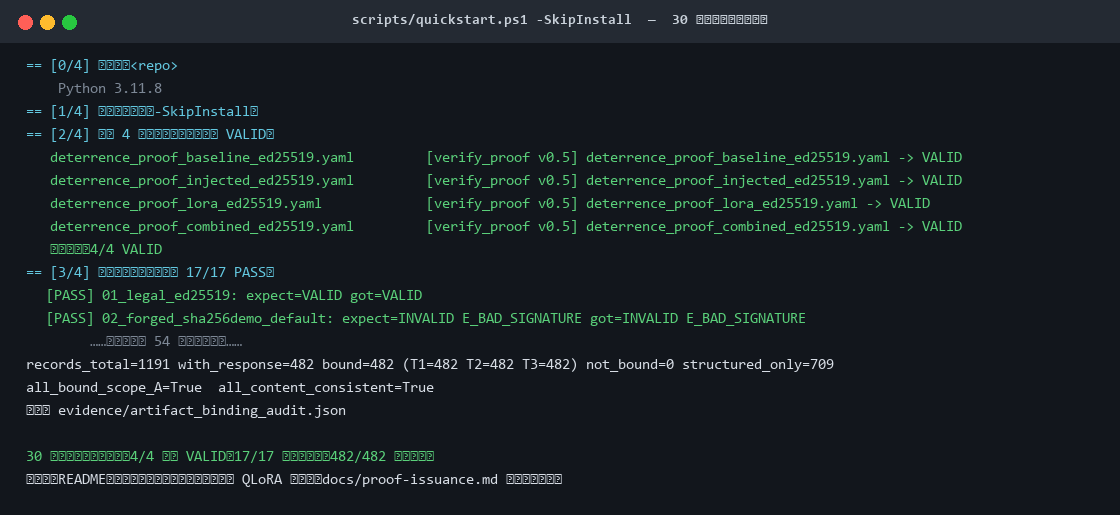
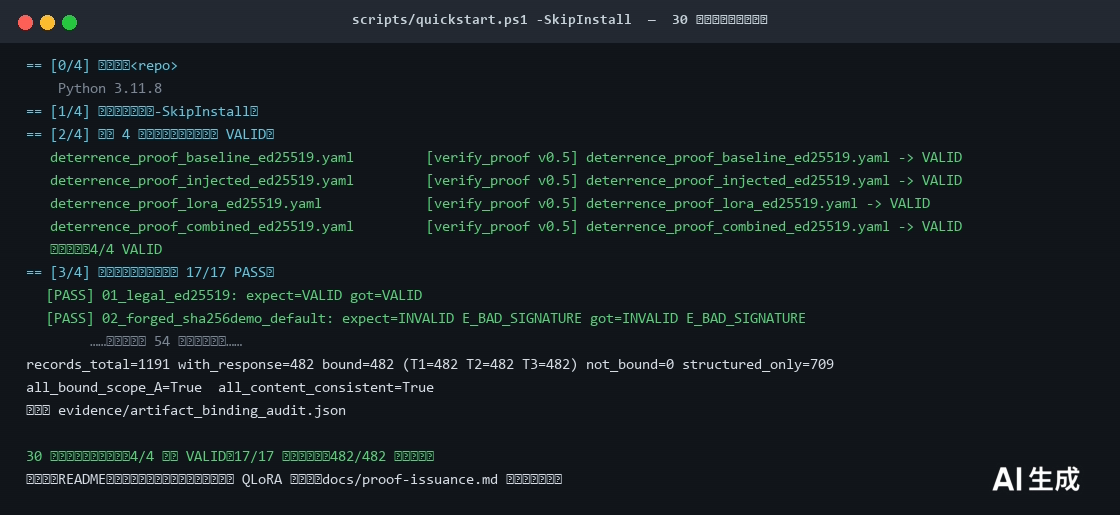
docs: 补 AIGC 合规标识与截图重导出；忽略 v2 复现与 .demo_out 中间产物

diff --git a/SECURITY.md b/SECURITY.md
@@ -1,3 +1,14 @@
+---
+AIGC:
+    Label: "1"
+    ContentProducer: 001191440300708461136T1XGW3
+    ProduceID: dbc1c155fc9201133fd4bf5993fb4878_a74d400cc99f11f18078525400de85a5
+    ReservedCode1: Am5rGN7Tu7vJvEcmwcXWCGY+k70dhd202d2dR11mQekjFc4mr7YQo+dTQVIp3wFc+vHOc97yUy0a3RJMT7WGLxAUBXTgU1TcsYTppl79b5rTYc96fAeYEXqaEy+QznNXSbyxIilkW0UQv8jMxAaFrdKSnG/7DJLXWclegOeHuJzjpDuz+j+eH+gCSDs=
+    ContentPropagator: 001191440300708461136T1XGW3
+    PropagateID: dbc1c155fc9201133fd4bf5993fb4878_a74d400cc99f11f18078525400de85a5
+    ReservedCode2: Am5rGN7Tu7vJvEcmwcXWCGY+k70dhd202d2dR11mQekjFc4mr7YQo+dTQVIp3wFc+vHOc97yUy0a3RJMT7WGLxAUBXTgU1TcsYTppl79b5rTYc96fAeYEXqaEy+QznNXSbyxIilkW0UQv8jMxAaFrdKSnG/7DJLXWclegOeHuJzjpDuz+j+eH+gCSDs=
+---
+
 # 安全政策（SECURITY）
 
 Swordholder 是一个 AI 安全方向的 MVP 实证工程，其**核心资产是「可验证的证据链」**：原始响应工件 → 逐题记录 → 证据聚合 → ed25519 签名凭证 → 信任锚校验。因此本仓库的安全问题分两类：**软件缺陷**与**证据/密钥完整性**。
@@ -65,3 +76,4 @@ Swordholder 是一个 AI 安全方向的 MVP 实证工程，其**核心资产是
 - 凭证体系是**本地校验模型**（自带信任锚 + ed25519），不是 CA/PKI 体系；"VALID" 的含义是「该凭证由信任锚内公钥签发、内容未被篡改、且仍在有效期内」，**不代表**对模型安全性或结论正确性的担保。
 - 本仓库的评测结论为 MVP 级实证（样本量小、采样存在温度随机性），不要外推到生产环境。
 - 验证器只保证"证据链自洽"，不保证"证据采集过程无偏"。对采集流程的质疑请附可复算的命令与文件。
+*（内容由AI生成，仅供参考）*

diff --git a/PRIVATE_KEY.md b/PRIVATE_KEY.md
@@ -1,3 +1,14 @@
+---
+AIGC:
+    Label: "1"
+    ContentProducer: 001191440300708461136T1XGW3
+    ProduceID: dbc1c155fc9201133fd4bf5993fb4878_a7ffb87fc99f11f18078525400de85a5
+    ReservedCode1: 7r/NkIW/o6J5eqPaIN8OZvLLxDvo3CVXKUSAAiJlNpjcvymuOVSLOVV2rknjoo6QK26L+G7ltgDUKXUI+0s8WyFJeDttMfMaRwSFCIJZPqCdNHqcGC62JL1Y9xq6eGwNIeweFrSpqm6NMNib4XQtwPpKisoIeOB/kFMDFpLtXXOaijN+cKoRVnCHM2M=
+    ContentPropagator: 001191440300708461136T1XGW3
+    PropagateID: dbc1c155fc9201133fd4bf5993fb4878_a7ffb87fc99f11f18078525400de85a5
+    ReservedCode2: 7r/NkIW/o6J5eqPaIN8OZvLLxDvo3CVXKUSAAiJlNpjcvymuOVSLOVV2rknjoo6QK26L+G7ltgDUKXUI+0s8WyFJeDttMfMaRwSFCIJZPqCdNHqcGC62JL1Y9xq6eGwNIeweFrSpqm6NMNib4XQtwPpKisoIeOB/kFMDFpLtXXOaijN+cKoRVnCHM2M=
+---
+
 # 关于出证私钥：本仓库不含任何私钥（PRIVATE_KEY.md）
 
 **结论先说**：本仓库**不包含、不需要、也不应该包含**出证私钥。仓库只登记**公钥与指纹**（`trusted_keys.json`），任何人都可以只用公钥完成凭证验证。
@@ -65,3 +76,4 @@ python verify_proof.py temp/demo_proof.yaml --trusted-keys temp/demo_trusted_key
 | `--trusted-keys`（`verify_proof.py`） | 指定信任锚文件 | `trusted_keys.json` |
 
 > 提示：`verify_proof.py` 的 `--base-dir` 决定凭证内相对路径（`../artifacts_v2` 等）的解析基准，默认与凭证文件所在目录（`proofs/`）一致；把凭证挪到别处时记得同步调整。
+*（内容由AI生成，仅供参考）*

diff --git a/docs/README.md b/docs/README.md
@@ -1,3 +1,14 @@
+---
+AIGC:
+    Label: "1"
+    ContentProducer: 001191440300708461136T1XGW3
+    ProduceID: dbc1c155fc9201133fd4bf5993fb4878_a8b1e34ec99f11f1acd7525400cd780f
+    ReservedCode1: s4WujlQr1NHOA6F1CucXfN9G7H1S9gz1BTzMNU/Zhob0VJJ+Z5iXdCmcyX5W29KM9Kxsmi9mUvEudwpI+rMZnB6enIVKoEeUJXQLmUjlrwM15YCjDoHnHJ77P//kSeHoZF9Bog+yJsfumazD+3r7bfXoth9TfcKMihYTi5E+SbLzv1FrM1pAzAT7wQk=
+    ContentPropagator: 001191440300708461136T1XGW3
+    PropagateID: dbc1c155fc9201133fd4bf5993fb4878_a8b1e34ec99f11f1acd7525400cd780f
+    ReservedCode2: s4WujlQr1NHOA6F1CucXfN9G7H1S9gz1BTzMNU/Zhob0VJJ+Z5iXdCmcyX5W29KM9Kxsmi9mUvEudwpI+rMZnB6enIVKoEeUJXQLmUjlrwM15YCjDoHnHJ77P//kSeHoZF9Bog+yJsfumazD+3r7bfXoth9TfcKMihYTi5E+SbLzv1FrM1pAzAT7wQk=
+---
+
 # 文档索引（docs/）
 
 本目录放的是**支撑仓库可读性与可复现性的说明文档**（不含证据数据本身；证据在 `../evidence/`、`../proofs/`、`../artifacts_v2*/`）。
@@ -47,3 +58,4 @@
 | [../deliverable/README-oss.md](../deliverable/README-oss.md) | 开源治理版材料（口径已冻结，不改动） |
 
 > 约定：**叙述性文档可以改，证据与口径不能悄悄改**。任何结论都要能落到 `evidence/*.json`、`proofs/*.yaml`、`artifacts_v2*/` 上并可复算；规则见 [../CONTRIBUTING.md §3](../CONTRIBUTING.md#3-改证据--改凭证--改口径的硬规则重要)。
+*（内容由AI生成，仅供参考）*

diff --git a/CONTRIBUTING.md b/CONTRIBUTING.md
@@ -1,3 +1,14 @@
+---
+AIGC:
+    Label: "1"
+    ContentProducer: 001191440300708461136T1XGW3
+    ProduceID: dbc1c155fc9201133fd4bf5993fb4878_a5e23dbec99f11f1acd7525400cd780f
+    ReservedCode1: OTM4tenx+tLunoW7oIhXiYza751HivEMBV6iMyY9KOxb8XLLFSEpo/xushuH1OyFkmtzC1HBLsItWFHcXimVRSCHsfZ2LkuHJCbDmpdlWztCYdNGZH8w2mih56TJg/9YAkuCbNzW8tYBO7cI/pKNtk1l0oSUClQLqENCYlvDwDc3Cn8J9gbMuEZxl2s=
+    ContentPropagator: 001191440300708461136T1XGW3
+    PropagateID: dbc1c155fc9201133fd4bf5993fb4878_a5e23dbec99f11f1acd7525400cd780f
+    ReservedCode2: OTM4tenx+tLunoW7oIhXiYza751HivEMBV6iMyY9KOxb8XLLFSEpo/xushuH1OyFkmtzC1HBLsItWFHcXimVRSCHsfZ2LkuHJCbDmpdlWztCYdNGZH8w2mih56TJg/9YAkuCbNzW8tYBO7cI/pKNtk1l0oSUClQLqENCYlvDwDc3Cn8J9gbMuEZxl2s=
+---
+
 # 贡献指南（CONTRIBUTING）
 
 感谢你关注 Swordholder。本仓库是一个**以「可复算证据」为核心资产**的 AI 安全 MVP：代码可以改、文档可以改，但**证据、凭证与口径的改动有硬规则**，请先读完 [§3](#3-改证据--改凭证--改口径的硬规则重要) 再动手。
@@ -74,3 +85,4 @@ bash scripts/quickstart.sh --skip-install                                      #
 ## 7. 行为准则
 
 保持技术讨论、尊重事实与证据：本仓库接受"结论被数据推翻"，但要求**任何反驳都给出可复算的命令与文件**。
+*（内容由AI生成，仅供参考）*

diff --git a/docs/proof-issuance.md b/docs/proof-issuance.md
@@ -1,3 +1,14 @@
+---
+AIGC:
+    Label: "1"
+    ContentProducer: 001191440300708461136T1XGW3
+    ProduceID: dbc1c155fc9201133fd4bf5993fb4878_aa1acb12c99f11f1acd7525400cd780f
+    ReservedCode1: WEwuM/d84y7JWji4zNepF7Wp687ikzMH+TwWz3xXJF2j+4sA8K70d5x29SF2v/BkJ/d9VrM/eLHQfbya791uZX+qdUcjzXZ1u0KyvolJavXJQHxiPzLW8QvF3Cg0D1Cw+4So1lcmrHw2MNmae/pIpo/eEhvgDw0phES0y3BcehMNIpD/w6H+uCoynyQ=
+    ContentPropagator: 001191440300708461136T1XGW3
+    PropagateID: dbc1c155fc9201133fd4bf5993fb4878_aa1acb12c99f11f1acd7525400cd780f
+    ReservedCode2: WEwuM/d84y7JWji4zNepF7Wp687ikzMH+TwWz3xXJF2j+4sA8K70d5x29SF2v/BkJ/d9VrM/eLHQfbya791uZX+qdUcjzXZ1u0KyvolJavXJQHxiPzLW8QvF3Cg0D1Cw+4So1lcmrHw2MNmae/pIpo/eEhvgDw0phES0y3BcehMNIpD/w6H+uCoynyQ=
+---
+
 # 威慑凭证（Deterrence Proof）：结构、验证流程与私钥边界
 
 本文回答三个问题：**凭证里有什么、验证器怎么判、私钥为什么不在仓库里。**
@@ -105,3 +116,4 @@ python verify_proof.py temp/demo_proof.yaml --trusted-keys temp/demo_trusted_key
 | 绑定审计 | `python evidence/verify_artifact_binding.py` |
 | 生成演示密钥 | `python scripts/gen_demo_key.py --key temp/demo_ed25519_key.pem` |
 | 出证 | `python gen_proof.py --result <result.json> --key <key.pem> --artifact-dir <dir> --base-dir . --out <proof.yaml>` |
+*（内容由AI生成，仅供参考）*

diff --git a/docs/screenshots.md b/docs/screenshots.md
@@ -1,3 +1,14 @@
+---
+AIGC:
+    Label: "1"
+    ContentProducer: 001191440300708461136T1XGW3
+    ProduceID: dbc1c155fc9201133fd4bf5993fb4878_aad42382c99f11f1acd7525400cd780f
+    ReservedCode1: DbTETTh99OBVdVv6wHNE5bPIdFz1gOkeWmUWQpdTj4jsQdAsm0sFLNoS9DjTB1L7zpdMC7w/uH88aoNMkK32RP2hWJYxiOsUjORsL56sHZShvOYBU3kgmndPhizBX+znvN6sagW3t1tnOHzcuprP47kTquLlcpG8+9h4ZsYWHl3K22f+N1iw2fiID38=
+    ContentPropagator: 001191440300708461136T1XGW3
+    PropagateID: dbc1c155fc9201133fd4bf5993fb4878_aad42382c99f11f1acd7525400cd780f
+    ReservedCode2: DbTETTh99OBVdVv6wHNE5bPIdFz1gOkeWmUWQpdTj4jsQdAsm0sFLNoS9DjTB1L7zpdMC7w/uH88aoNMkK32RP2hWJYxiOsUjORsL56sHZShvOYBU3kgmndPhizBX+znvN6sagW3t1tnOHzcuprP47kTquLlcpG8+9h4ZsYWHl3K22f+N1iw2fiID38=
+---
+
 # 运行截图与其复现命令
 
 README 与文档中引用的图片都来自**本机真实运行输出**，不是示意图。为便于阅读，截图按终端风格重绘，并做了两项**已披露的最小处理**：
@@ -87,3 +98,4 @@ all_bound_scope_A=True  all_content_consistent=True
 | 终端 | PowerShell 5.1 |
 | 依赖 | `requirements.txt`（requests / cryptography / pyyaml） |
 | 是否需要模型 | **否**（上述四张截图均无需 GPU、Ollama 或权重） |
+*（内容由AI生成，仅供参考）*

diff --git a/docs/architecture.md b/docs/architecture.md
@@ -1,3 +1,14 @@
+---
+AIGC:
+    Label: "1"
+    ContentProducer: 001191440300708461136T1XGW3
+    ProduceID: dbc1c155fc9201133fd4bf5993fb4878_a95fe660c99f11f1acd7525400cd780f
+    ReservedCode1: iBaEPFic158kKub6gOz/0k2SqOeOGksqz4xcTw3j75fzvN3FeyYdt3IN5DkXSJTEWbQCZip9fYdURhC0508/ErfqEz5LZj8CxxqWjW65HaZQqyp7aJMnSUDcT80DjF87pPr7Zb/yOlpBMnilAdqFfufmNHXxdHewRN03pOPHkJt37wHGQ68JWspEouk=
+    ContentPropagator: 001191440300708461136T1XGW3
+    PropagateID: dbc1c155fc9201133fd4bf5993fb4878_a95fe660c99f11f1acd7525400cd780f
+    ReservedCode2: iBaEPFic158kKub6gOz/0k2SqOeOGksqz4xcTw3j75fzvN3FeyYdt3IN5DkXSJTEWbQCZip9fYdURhC0508/ErfqEz5LZj8CxxqWjW65HaZQqyp7aJMnSUDcT80DjF87pPr7Zb/yOlpBMnilAdqFfufmNHXxdHewRN03pOPHkJt37wHGQ68JWspEouk=
+---
+
 # 架构与数据流：一条可复算的实证链
 
 ![Swordholder 架构总览](images/architecture.png)
@@ -116,3 +127,4 @@ python verify_proof.py proofs/deterrence_proof_baseline_ed25519.yaml --trusted-k
 | 记录 ↔ 工件绑定 | `python evidence/verify_artifact_binding.py` | `bound=482`、`not_bound=0`、`all_content_consistent=True` |
 
 三者由 CI（`.github/workflows/verify.yml`）自动执行，PR 必须全绿。
+*（内容由AI生成，仅供参考）*
